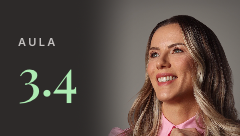
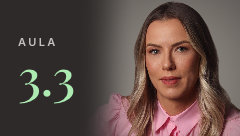
Adiciona módulo de Comunicação Assertiva e aula de Resiliência

Changed region(s): [[0.4083, 0.0, 1.0, 1.0], [0.2042, 0.5, 0.3208, 0.7647]]

diff --git a/content.config.js b/content.config.js
@@ -59,7 +59,22 @@
           lessons: [
             lesson("lideranca-autogestao-inteligencia-emocional", "3.1 Liderança Autogestão – Inteligência emocional", "03", "01"),
             lesson("autorregulacao", "3.2 Autorregulação", "03", "02"),
-            lesson("meu-plano-de-autogestao", "3.4 Meu plano de Autogestão", "03", "03"),
+            lesson("resiliencia-pressao-e-recuperacao", "3.3 Resiliência: pressão e recuperação", "03", "03"),
+            lesson("meu-plano-de-autogestao", "3.4 Meu plano de Autogestão", "03", "04"),
+          ],
+        },
+        {
+          id: "comunicacao-assertiva",
+          title: "Módulo 4 · Comunicação Assertiva",
+          description: "Comunique com responsabilidade, escute de verdade e seja claro sem ser agressivo.",
+          cover: prefix + "modulo-04.png",
+          lessons: [
+            lesson("comunicacao-responsabilidade-do-lider-parte-1", "4.1 Comunicação é responsabilidade do líder — vídeo 1", "04", "01"),
+            lesson("comunicacao-responsabilidade-do-lider-parte-2", "4.1 Comunicação é responsabilidade do líder — vídeo 2", "04", "02"),
+            lesson("escuta-ativa", "4.2 Escuta ativa", "04", "03"),
+            lesson("assertividade-clareza-sem-agressividade", "4.3 Assertividade: clareza sem agressividade", "04", "04"),
+            lesson("comunicacao-nao-violenta-parte-1", "4.4 Comunicação não violenta — vídeo 1", "04", "05"),
+            lesson("comunicacao-nao-violenta-parte-2", "4.4 Comunicação não violenta — vídeo 2", "04", "06"),
           ],
         },
       ],
